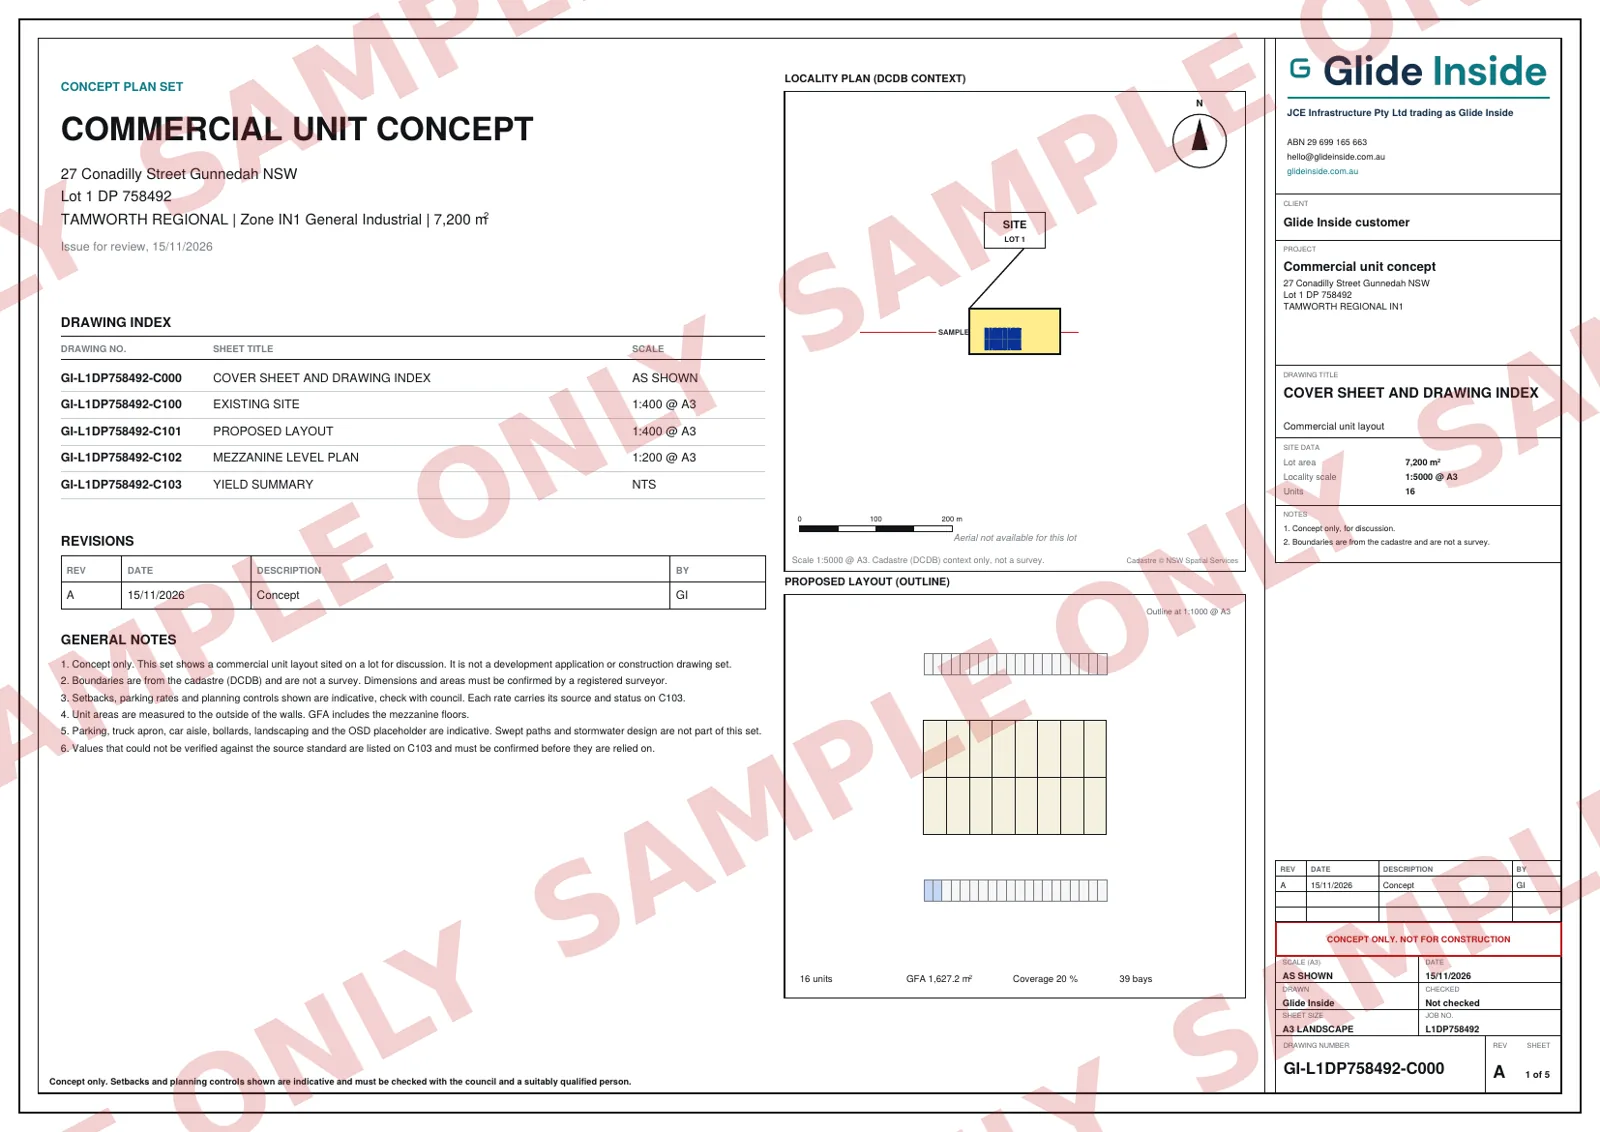
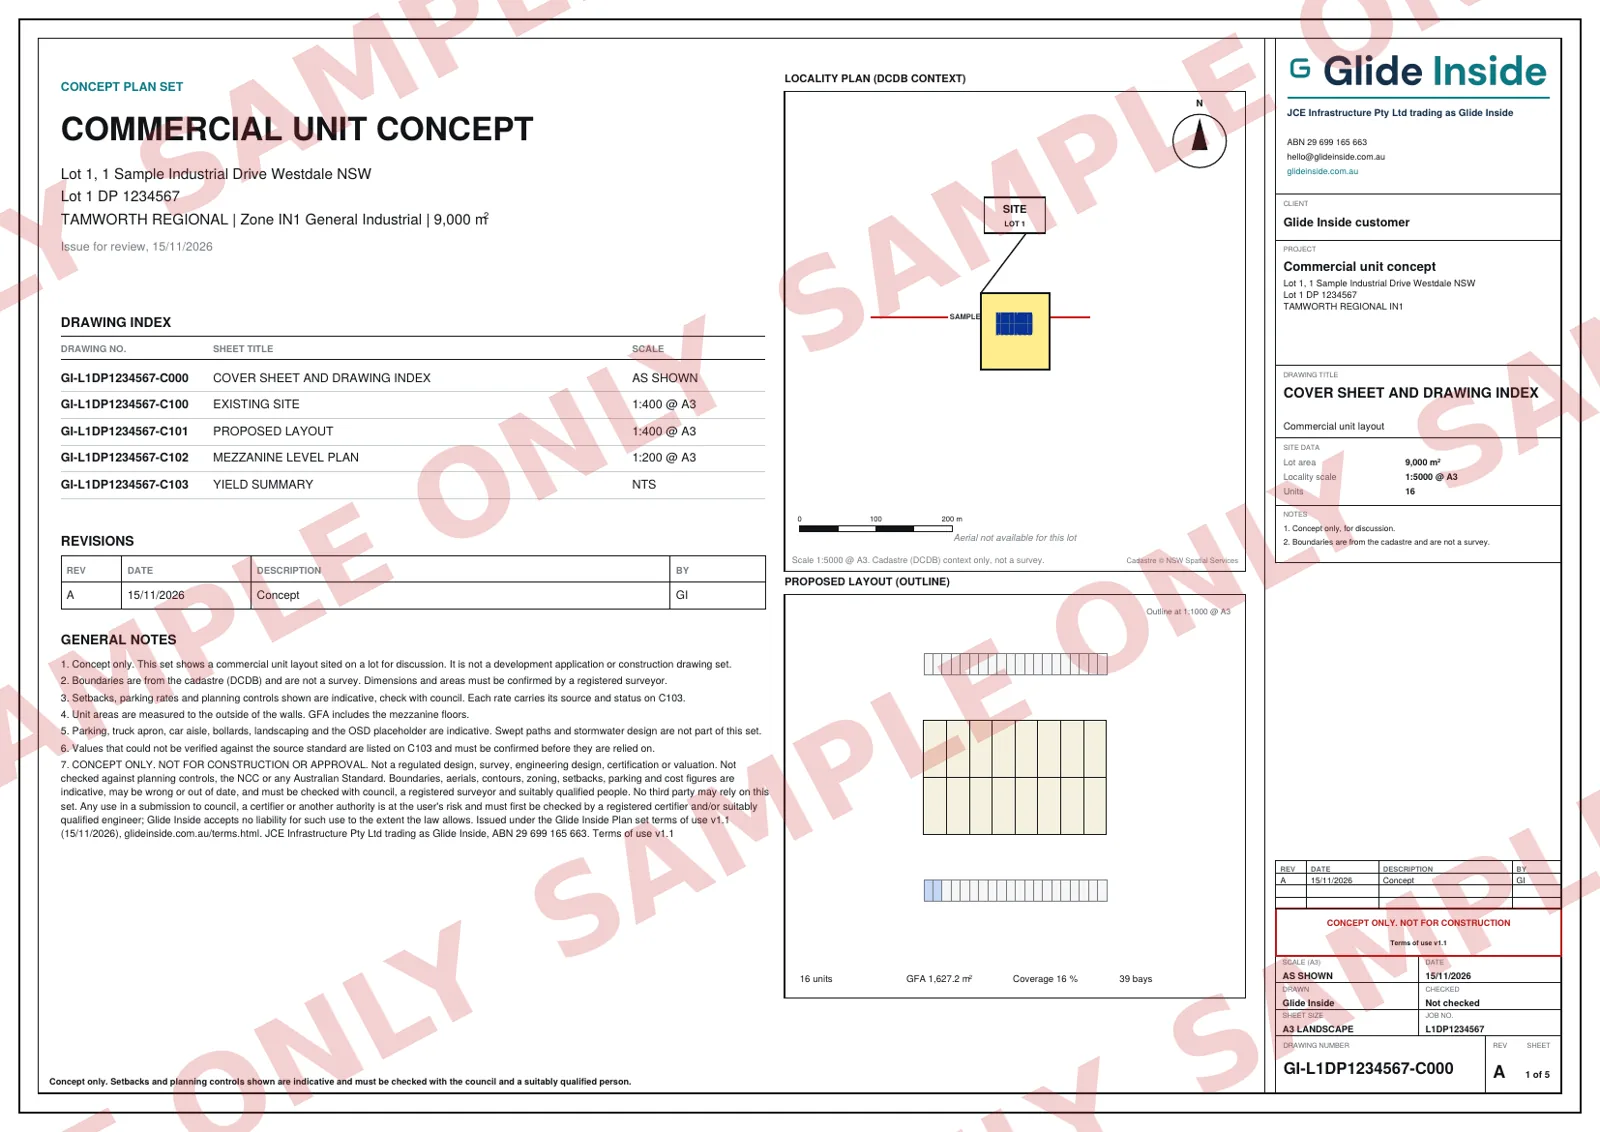
Site: commercial sample sheets on an invented sample lot
Claude-Session: https://claude.ai/code/session_01AcQqUWYpmQcaYiwB8r1zsn

diff --git a/GlideInside/website-live/sample-plan-set/index.html b/GlideInside/website-live/sample-plan-set/index.html
@@ -67,10 +67,10 @@
   </div>
 </section>
 <section class="shell section" style="padding-top:0">
-  <div class="section-head"><h2>Commercial plan set</h2><p>Sheets from a Glide Inside Commercial plan set for a row of strata units on a sample industrial lot.</p></div>
+  <div class="section-head"><h2>Commercial plan set</h2><p>Sheets from a Glide Inside Commercial plan set for two back to back rows of units on an invented sample lot (Lot 1, 1 Sample Industrial Drive, Westdale NSW).</p></div>
   <div class="sample-grid">
-    <figure class="sample"><a href="../assets/sample-sheets/commercial-cover-sheet.webp"><img src="../assets/sample-sheets/commercial-cover-sheet.webp" width="1600" height="1132" alt="Cover sheet of a sample commercial concept plan set with a drawing index and proposed layout outline" loading="lazy" decoding="async"></a><figcaption><b>Cover sheet and drawing list</b>Sheet C000. Locality plan, drawing index and the proposed layout outline.</figcaption></figure>
-    <figure class="sample"><a href="../assets/sample-sheets/commercial-elevations.webp"><img src="../assets/sample-sheets/commercial-elevations.webp" width="1600" height="1132" alt="Elevations sheet of a sample commercial concept plan set showing two rows of strata units" loading="lazy" decoding="async"></a><figcaption><b>Elevations</b>Sheet C104. Street elevations of two unit rows with indicative levels on an assumed datum.</figcaption></figure>
+    <figure class="sample"><a href="../assets/sample-sheets/commercial-cover-sheet.webp?v=2"><img src="../assets/sample-sheets/commercial-cover-sheet.webp?v=2" width="1600" height="1132" alt="Cover sheet of a sample commercial concept plan set for an invented sample lot, with a drawing index and proposed layout outline" loading="lazy" decoding="async"></a><figcaption><b>Cover sheet and drawing list</b>Sheet C000. Locality plan, drawing index and layout outline for the invented sample lot.</figcaption></figure>
+    <figure class="sample"><a href="../assets/sample-sheets/commercial-proposed-layout.webp?v=2"><img src="../assets/sample-sheets/commercial-proposed-layout.webp?v=2" width="1600" height="1132" alt="Proposed layout sheet of a sample commercial concept plan set showing two rows of units, parking and truck aprons on an invented sample lot" loading="lazy" decoding="async"></a><figcaption><b>Proposed layout</b>Sheet C101. Proposed layout of 16 units with parking, truck aprons and landscaping on the invented sample lot.</figcaption></figure>
   </div>
 </section>
 <section class="band section" id="what">
